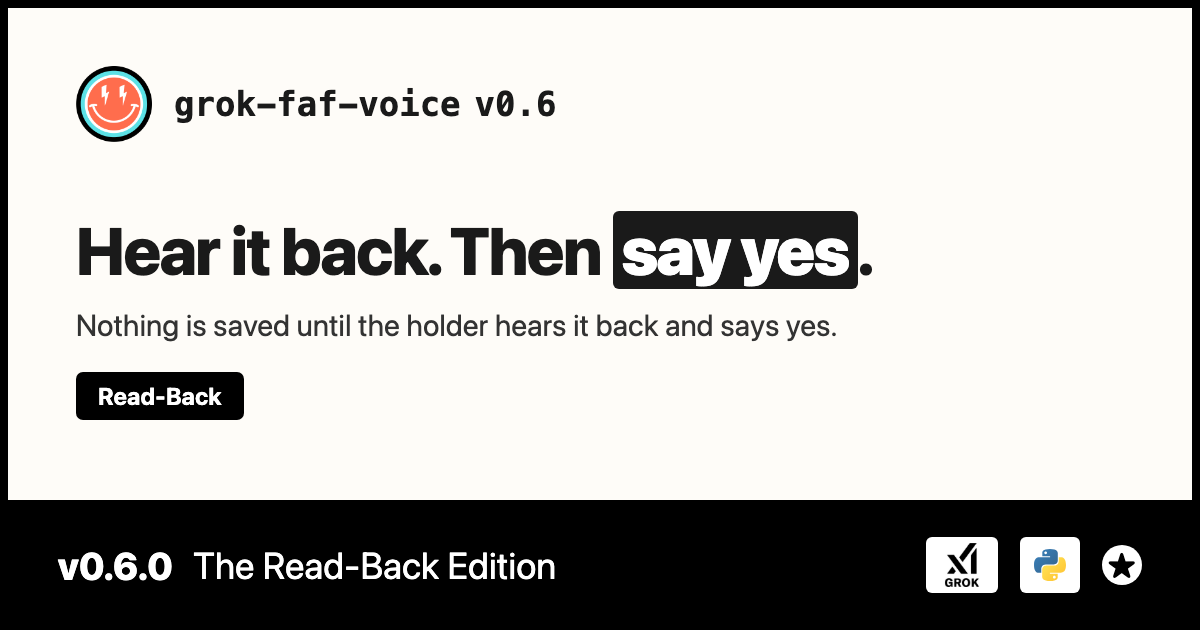
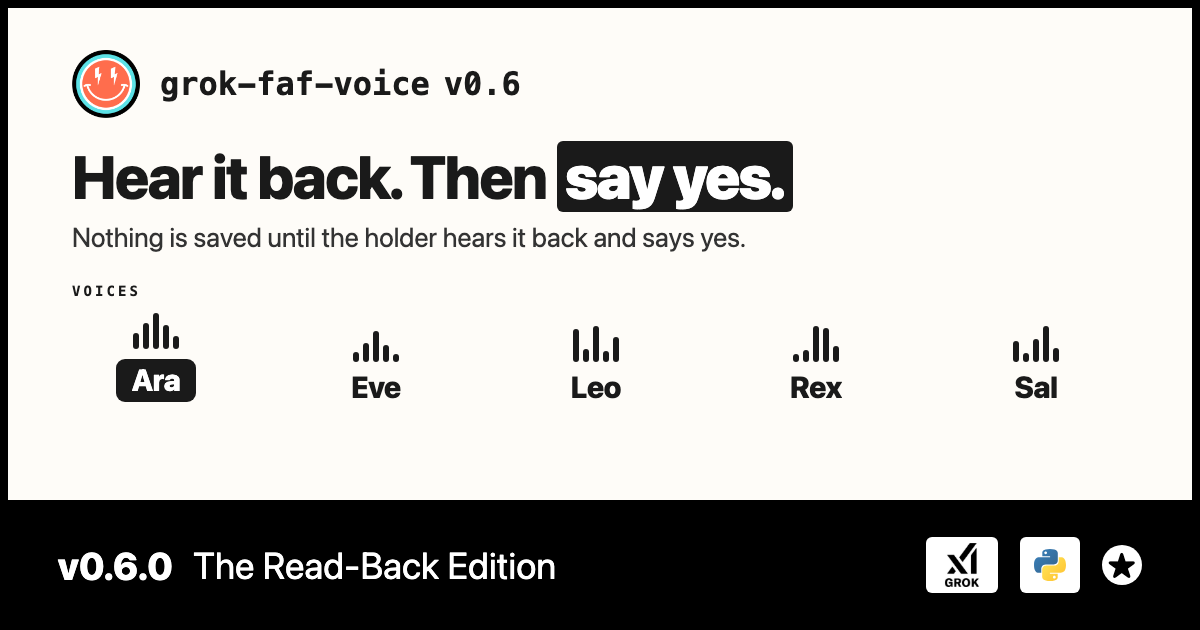
docs: put the five voices on the Read-Back card
Ara, Eve, Leo, Rex, and Sal. Ara is the voice the SDK opens on.

diff --git a/src/routes/blog/read-back-edition/+page.svelte b/src/routes/blog/read-back-edition/+page.svelte
@@ -76,7 +76,7 @@ Comments · suggestions · shares welcome.`;
 	<div class="hero-image">
 		<img
 			src="/blog/read-back-edition-hero.png"
-			alt="The Read-Back Edition — grok-faf-voice v0.6.0 · nothing is saved until the holder hears it back and says yes"
+			alt="The Read-Back Edition — grok-faf-voice v0.6.0 · voices Ara, Eve, Leo, Rex, and Sal · nothing is saved until the holder hears it back and says yes"
 			width="1200"
 			height="630"
 			loading="eager"
